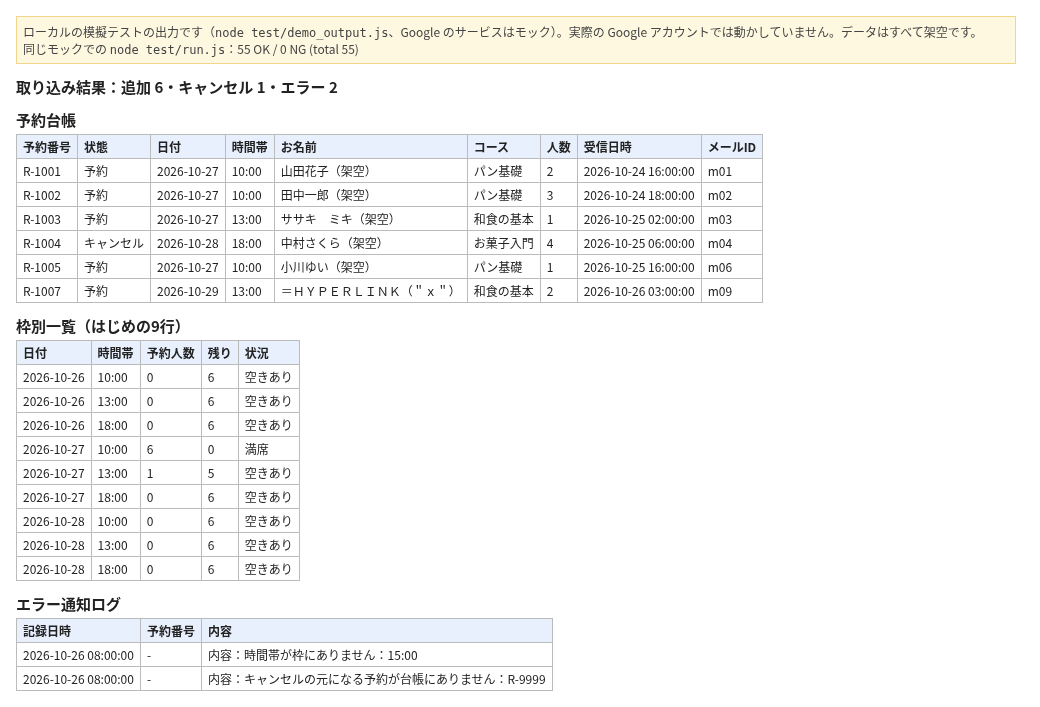
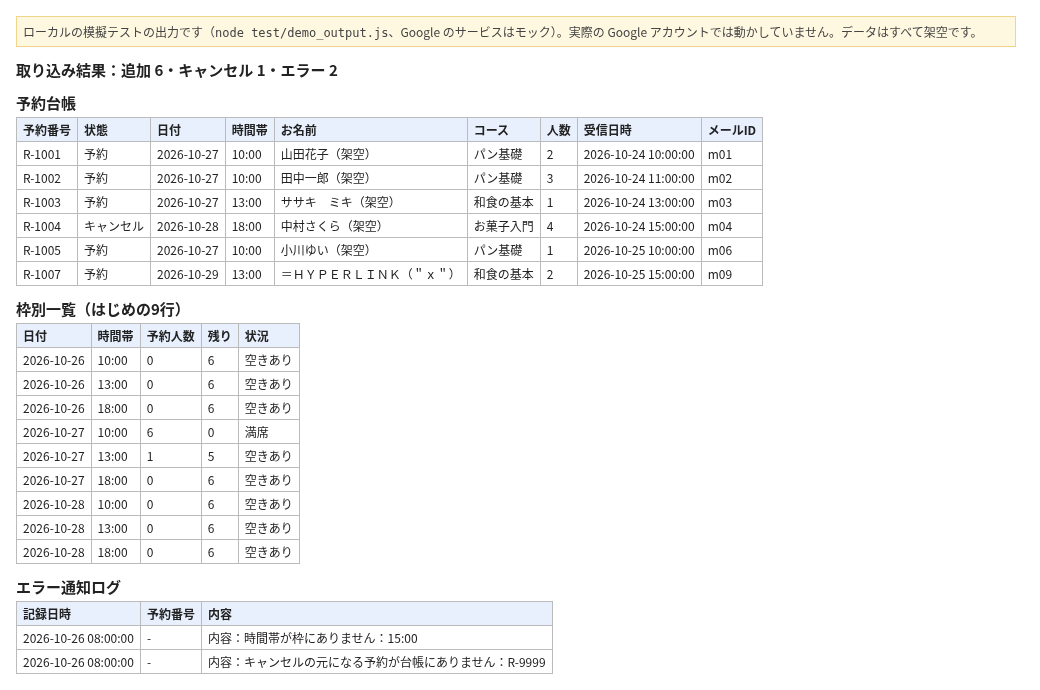
Demo dates in the past, daytime mail times, R-1007 note, README review fixes

Changed region(s): [[0.0, 0.0304, 0.9846, 1.0]]

diff --git a/test/fixtures.js b/test/fixtures.js
@@ -1,5 +1,6 @@
 // 架空の通知メール（送信元・人名・予約番号はすべて架空）
 var T0 = Date.UTC(2026, 9, 25, 23, 0, 0); // 2026-10-26 08:00 JST（月曜）
+// 受信時刻は 2026-10-24・25 の 10:00〜17:00（日中）
 function at(h) { return T0 - h * 3600000; }
 function booking(id, hAgo, no, name, date, time, menu, people) {
   return { id: id, dateMs: at(hAgo), from: 'noreply@yoyaku.example', subject: '【予約受付】' + menu + ' ' + date + ' ' + time,
@@ -9,15 +10,15 @@ function cancel(id, hAgo, no) {
   return { id: id, dateMs: at(hAgo), from: 'noreply@yoyaku.example', subject: '【キャンセル受付】予約番号 ' + no, body: 'キャンセルを受け付けました。\n予約番号：' + no + '\n' };
 }
 var MAILS = [
-  booking('m01', 40, 'R-1001', '山田花子（架空）', '2026-10-27', '10:00', 'パン基礎', 2),
-  booking('m02', 38, 'R-1002', '田中一郎（架空）', '2026-10-27', '10:00', 'パン基礎', 3),
-  booking('m03', 30, 'R-1003', 'ｻｻｷ ﾐｷ（架空）', '2026/10/27', '13:00', '和食の基本', 1),
-  booking('m04', 26, 'R-1004', '中村さくら（架空）', '2026-10-28', '18:00', 'お菓子入門', 4),
-  booking('m05', 20, 'R-1002', '田中一郎（架空）', '2026-10-27', '10:00', 'パン基礎', 3), // 同じ予約の再送
-  booking('m06', 16, 'R-1005', '小川ゆい（架空）', '2026-10-27', '10:00', 'パン基礎', 1),
-  cancel('m07', 12, 'R-1004'),
-  { id: 'm08', dateMs: at(9), from: 'noreply@yoyaku.example', subject: '【予約受付】お菓子入門', body: '予約番号：R-1006\nお名前：森あおい（架空）\n日付：2026-10-29\n時間：15:00\nコース：お菓子入門\n人数：1名\n' }, // 枠にない時間
-  booking('m09', 5, 'R-1007', '=HYPERLINK("x")', '2026-10-29', '13:00', '和食の基本', 2),
-  cancel('m10', 2, 'R-9999') // 元の予約が無いキャンセル
+  booking('m01', 46, 'R-1001', '山田花子（架空）', '2026-10-27', '10:00', 'パン基礎', 2),
+  booking('m02', 45, 'R-1002', '田中一郎（架空）', '2026-10-27', '10:00', 'パン基礎', 3),
+  booking('m03', 43, 'R-1003', 'ｻｻｷ ﾐｷ（架空）', '2026/10/27', '13:00', '和食の基本', 1),
+  booking('m04', 41, 'R-1004', '中村さくら（架空）', '2026-10-28', '18:00', 'お菓子入門', 4),
+  booking('m05', 39, 'R-1002', '田中一郎（架空）', '2026-10-27', '10:00', 'パン基礎', 3), // 同じ予約の再送
+  booking('m06', 22, 'R-1005', '小川ゆい（架空）', '2026-10-27', '10:00', 'パン基礎', 1),
+  cancel('m07', 21, 'R-1004'),
+  { id: 'm08', dateMs: at(19), from: 'noreply@yoyaku.example', subject: '【予約受付】お菓子入門', body: '予約番号：R-1006\nお名前：森あおい（架空）\n日付：2026-10-29\n時間：15:00\nコース：お菓子入門\n人数：1名\n' }, // 枠にない時間
+  booking('m09', 17, 'R-1007', '=HYPERLINK("x")', '2026-10-29', '13:00', '和食の基本', 2),
+  cancel('m10', 15, 'R-9999') // 元の予約が無いキャンセル
 ];
 module.exports = { T0: T0, MAILS: MAILS, booking: booking, cancel: cancel, at: at };

diff --git a/README.md b/README.md
@@ -6,6 +6,8 @@
 
 架空の通知メール10通を読み、台帳に6件を追加し、キャンセル1件を反映し、読めない2通をエラー通知ログに残した結果です。上の画像は、ローカルの模擬テスト（`node test/demo_output.js`、Google のサービスはモック）の実際の出力から作りました。実際の Google アカウントでは動かしていません。
 
+R-1007は、数式の形の名前を全角にして、数式として動かないようにした例です。
+
 **効果：** 届いたメールを1通ずつ台帳に写す作業が、10分ごとの自動の書き込みになります。同じメールは二度入らず、キャンセルも台帳に反映されます。
 
 架空の料理教室のデータで動きます。登場する教室・人物・メールはすべて架空です。
